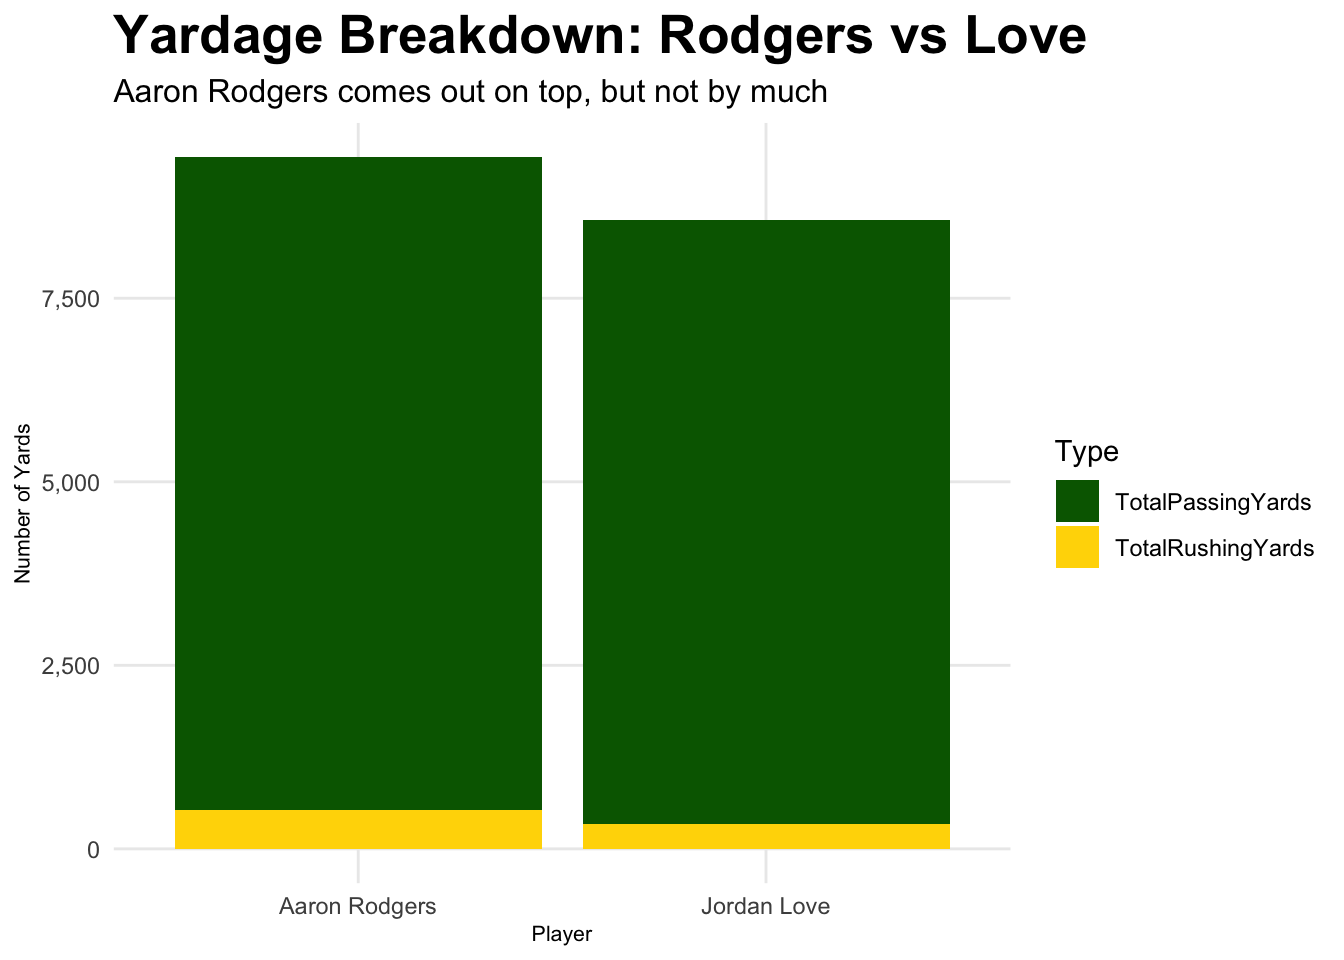
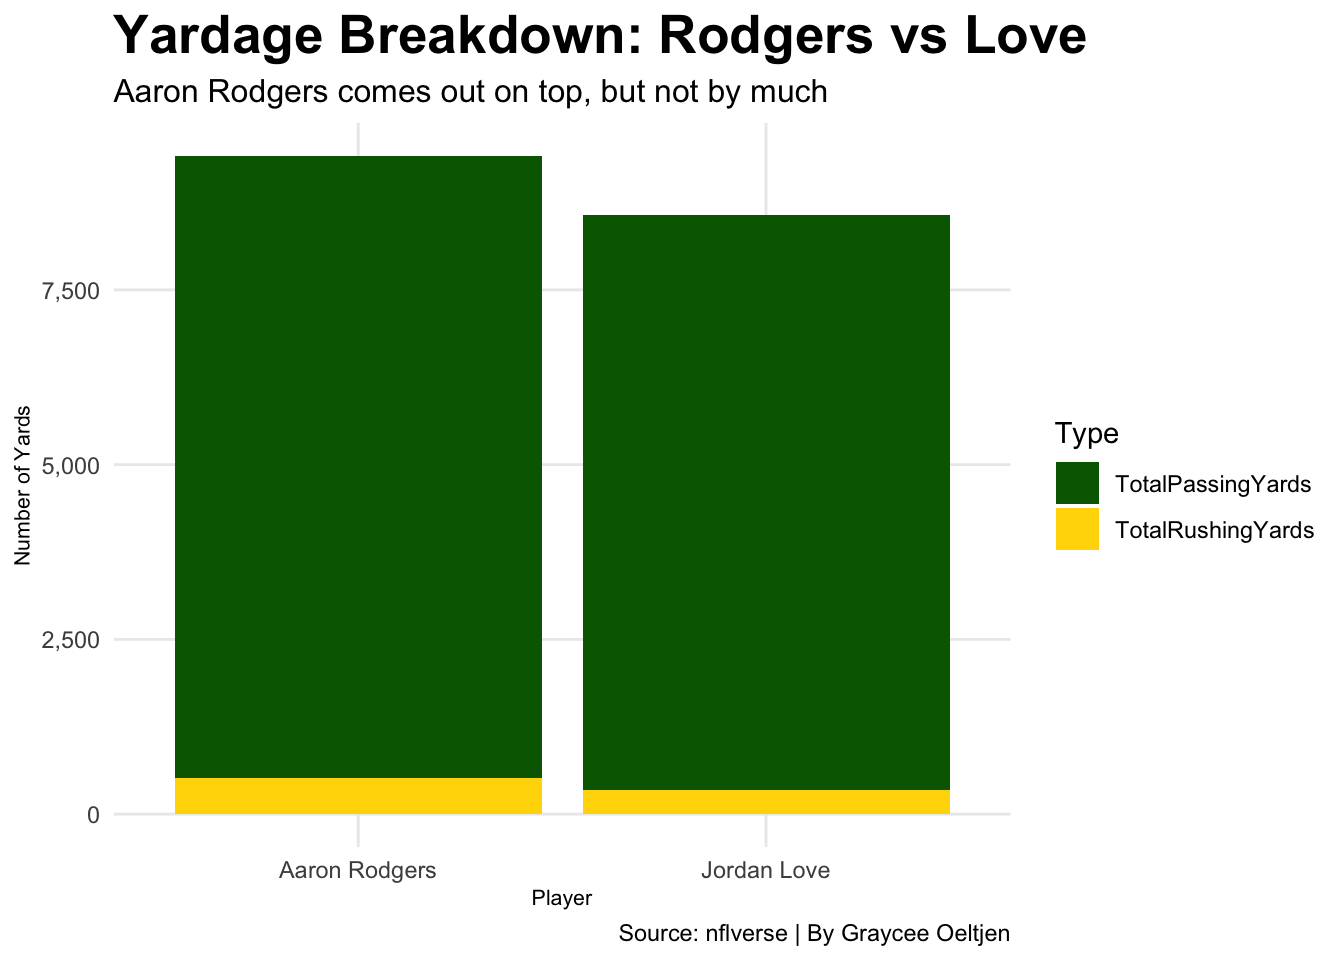
sourceupdateagain

diff --git a/posts/jordan-love-vs-aaron-rodgers/index.html b/posts/jordan-love-vs-aaron-rodgers/index.html
@@ -233,18 +233,19 @@ pre > code.sourceCode > span > a:first-child::before { text-decoration: underlin
 <span id="cb1-30"><a href="#cb1-30" aria-hidden="true" tabindex="-1"></a>    <span class="at">y =</span> <span class="st">"Number of Yards"</span>,</span>
 <span id="cb1-31"><a href="#cb1-31" aria-hidden="true" tabindex="-1"></a>    <span class="at">x =</span> <span class="st">"Player"</span>,</span>
 <span id="cb1-32"><a href="#cb1-32" aria-hidden="true" tabindex="-1"></a>    <span class="at">title =</span> <span class="st">"Yardage Breakdown: Rodgers vs Love"</span>,</span>
-<span id="cb1-33"><a href="#cb1-33" aria-hidden="true" tabindex="-1"></a>    <span class="at">subtitle =</span> <span class="st">"Aaron Rodgers comes out on top, but not by much"</span></span>
-<span id="cb1-34"><a href="#cb1-34" aria-hidden="true" tabindex="-1"></a>  ) <span class="sc">+</span></span>
-<span id="cb1-35"><a href="#cb1-35" aria-hidden="true" tabindex="-1"></a>  <span class="fu">scale_y_continuous</span>(<span class="at">labels =</span> scales<span class="sc">::</span>comma) <span class="sc">+</span></span>
-<span id="cb1-36"><a href="#cb1-36" aria-hidden="true" tabindex="-1"></a>  <span class="fu">theme_minimal</span>() <span class="sc">+</span></span>
-<span id="cb1-37"><a href="#cb1-37" aria-hidden="true" tabindex="-1"></a>  <span class="fu">theme</span>(</span>
-<span id="cb1-38"><a href="#cb1-38" aria-hidden="true" tabindex="-1"></a>    <span class="at">plot.title =</span> <span class="fu">element_text</span>(<span class="at">size =</span> <span class="dv">20</span>, <span class="at">face =</span> <span class="st">"bold"</span>),</span>
-<span id="cb1-39"><a href="#cb1-39" aria-hidden="true" tabindex="-1"></a>    <span class="at">panel.background =</span> <span class="fu">element_rect</span>(<span class="at">fill =</span> <span class="st">"white"</span>, <span class="at">color =</span> <span class="cn">NA</span>),</span>
-<span id="cb1-40"><a href="#cb1-40" aria-hidden="true" tabindex="-1"></a>    <span class="at">plot.background =</span> <span class="fu">element_rect</span>(<span class="at">fill =</span> <span class="st">"white"</span>, <span class="at">color =</span> <span class="cn">NA</span>),</span>
-<span id="cb1-41"><a href="#cb1-41" aria-hidden="true" tabindex="-1"></a>    <span class="at">plot.subtitle =</span> <span class="fu">element_text</span>(<span class="at">size =</span> <span class="dv">12</span>),</span>
-<span id="cb1-42"><a href="#cb1-42" aria-hidden="true" tabindex="-1"></a>    <span class="at">axis.title =</span> <span class="fu">element_text</span>(<span class="at">size =</span> <span class="dv">8</span>),</span>
-<span id="cb1-43"><a href="#cb1-43" aria-hidden="true" tabindex="-1"></a>    <span class="at">panel.grid.minor =</span> <span class="fu">element_blank</span>()</span>
-<span id="cb1-44"><a href="#cb1-44" aria-hidden="true" tabindex="-1"></a>  )</span></code><button title="Copy to Clipboard" class="code-copy-button"><i class="bi"></i></button></pre></div>
+<span id="cb1-33"><a href="#cb1-33" aria-hidden="true" tabindex="-1"></a>    <span class="at">subtitle =</span> <span class="st">"Aaron Rodgers comes out on top, but not by much"</span>,</span>
+<span id="cb1-34"><a href="#cb1-34" aria-hidden="true" tabindex="-1"></a>    <span class="at">caption=</span><span class="st">"Source: nflverse | By Graycee Oeltjen"</span>,</span>
+<span id="cb1-35"><a href="#cb1-35" aria-hidden="true" tabindex="-1"></a>  ) <span class="sc">+</span></span>
+<span id="cb1-36"><a href="#cb1-36" aria-hidden="true" tabindex="-1"></a>  <span class="fu">scale_y_continuous</span>(<span class="at">labels =</span> scales<span class="sc">::</span>comma) <span class="sc">+</span></span>
+<span id="cb1-37"><a href="#cb1-37" aria-hidden="true" tabindex="-1"></a>  <span class="fu">theme_minimal</span>() <span class="sc">+</span></span>
+<span id="cb1-38"><a href="#cb1-38" aria-hidden="true" tabindex="-1"></a>  <span class="fu">theme</span>(</span>
+<span id="cb1-39"><a href="#cb1-39" aria-hidden="true" tabindex="-1"></a>    <span class="at">plot.title =</span> <span class="fu">element_text</span>(<span class="at">size =</span> <span class="dv">20</span>, <span class="at">face =</span> <span class="st">"bold"</span>),</span>
+<span id="cb1-40"><a href="#cb1-40" aria-hidden="true" tabindex="-1"></a>    <span class="at">panel.background =</span> <span class="fu">element_rect</span>(<span class="at">fill =</span> <span class="st">"white"</span>, <span class="at">color =</span> <span class="cn">NA</span>),</span>
+<span id="cb1-41"><a href="#cb1-41" aria-hidden="true" tabindex="-1"></a>    <span class="at">plot.background =</span> <span class="fu">element_rect</span>(<span class="at">fill =</span> <span class="st">"white"</span>, <span class="at">color =</span> <span class="cn">NA</span>),</span>
+<span id="cb1-42"><a href="#cb1-42" aria-hidden="true" tabindex="-1"></a>    <span class="at">plot.subtitle =</span> <span class="fu">element_text</span>(<span class="at">size =</span> <span class="dv">12</span>),</span>
+<span id="cb1-43"><a href="#cb1-43" aria-hidden="true" tabindex="-1"></a>    <span class="at">axis.title =</span> <span class="fu">element_text</span>(<span class="at">size =</span> <span class="dv">8</span>),</span>
+<span id="cb1-44"><a href="#cb1-44" aria-hidden="true" tabindex="-1"></a>    <span class="at">panel.grid.minor =</span> <span class="fu">element_blank</span>()</span>
+<span id="cb1-45"><a href="#cb1-45" aria-hidden="true" tabindex="-1"></a>  )</span></code><button title="Copy to Clipboard" class="code-copy-button"><i class="bi"></i></button></pre></div>
 </details>
 <div class="cell-output-display">
 <div>
@@ -283,18 +284,19 @@ pre > code.sourceCode > span > a:first-child::before { text-decoration: underlin
 <span id="cb2-21"><a href="#cb2-21" aria-hidden="true" tabindex="-1"></a>    <span class="at">y =</span> <span class="st">"Touchdown Rate"</span>,</span>
 <span id="cb2-22"><a href="#cb2-22" aria-hidden="true" tabindex="-1"></a>    <span class="at">color =</span> <span class="st">"Player"</span>,</span>
 <span id="cb2-23"><a href="#cb2-23" aria-hidden="true" tabindex="-1"></a>    <span class="at">title =</span> <span class="st">"Quarterback Accuracy in Green Bay"</span>,</span>
-<span id="cb2-24"><a href="#cb2-24" aria-hidden="true" tabindex="-1"></a>    <span class="at">subtitle =</span> <span class="st">"Aaron Rodgers and Jordan Love are pretty similar in this aspect"</span></span>
-<span id="cb2-25"><a href="#cb2-25" aria-hidden="true" tabindex="-1"></a>  ) <span class="sc">+</span></span>
-<span id="cb2-26"><a href="#cb2-26" aria-hidden="true" tabindex="-1"></a>  <span class="fu">scale_color_manual</span>(<span class="at">values =</span> <span class="fu">c</span>(<span class="st">"Aaron Rodgers"</span> <span class="ot">=</span> <span class="st">"gold"</span>, <span class="st">"Jordan Love"</span> <span class="ot">=</span> <span class="st">"darkgreen"</span>)) <span class="sc">+</span></span>
-<span id="cb2-27"><a href="#cb2-27" aria-hidden="true" tabindex="-1"></a>  <span class="fu">theme_minimal</span>() <span class="sc">+</span></span>
-<span id="cb2-28"><a href="#cb2-28" aria-hidden="true" tabindex="-1"></a>  <span class="fu">theme</span>(</span>
-<span id="cb2-29"><a href="#cb2-29" aria-hidden="true" tabindex="-1"></a>    <span class="at">plot.title =</span> <span class="fu">element_text</span>(<span class="at">size =</span> <span class="dv">16</span>, <span class="at">face =</span> <span class="st">"bold"</span>),</span>
-<span id="cb2-30"><a href="#cb2-30" aria-hidden="true" tabindex="-1"></a>    <span class="at">panel.background =</span> <span class="fu">element_rect</span>(<span class="at">fill =</span> <span class="st">"white"</span>, <span class="at">color =</span> <span class="cn">NA</span>),</span>
-<span id="cb2-31"><a href="#cb2-31" aria-hidden="true" tabindex="-1"></a>    <span class="at">plot.background =</span> <span class="fu">element_rect</span>(<span class="at">fill =</span> <span class="st">"white"</span>, <span class="at">color =</span> <span class="cn">NA</span>),</span>
-<span id="cb2-32"><a href="#cb2-32" aria-hidden="true" tabindex="-1"></a>    <span class="at">plot.subtitle =</span> <span class="fu">element_text</span>(<span class="at">size =</span> <span class="dv">10</span>),</span>
-<span id="cb2-33"><a href="#cb2-33" aria-hidden="true" tabindex="-1"></a>    <span class="at">axis.title =</span> <span class="fu">element_text</span>(<span class="at">size =</span> <span class="dv">8</span>),</span>
-<span id="cb2-34"><a href="#cb2-34" aria-hidden="true" tabindex="-1"></a>    <span class="at">panel.grid.minor =</span> <span class="fu">element_blank</span>()</span>
-<span id="cb2-35"><a href="#cb2-35" aria-hidden="true" tabindex="-1"></a>  )</span></code><button title="Copy to Clipboard" class="code-copy-button"><i class="bi"></i></button></pre></div>
+<span id="cb2-24"><a href="#cb2-24" aria-hidden="true" tabindex="-1"></a>    <span class="at">subtitle =</span> <span class="st">"Aaron Rodgers and Jordan Love are pretty similar in this aspect"</span>,</span>
+<span id="cb2-25"><a href="#cb2-25" aria-hidden="true" tabindex="-1"></a>    <span class="at">caption=</span><span class="st">"Source: nflverse | By Graycee Oeltjen"</span>,</span>
+<span id="cb2-26"><a href="#cb2-26" aria-hidden="true" tabindex="-1"></a>  ) <span class="sc">+</span></span>
+<span id="cb2-27"><a href="#cb2-27" aria-hidden="true" tabindex="-1"></a>  <span class="fu">scale_color_manual</span>(<span class="at">values =</span> <span class="fu">c</span>(<span class="st">"Aaron Rodgers"</span> <span class="ot">=</span> <span class="st">"gold"</span>, <span class="st">"Jordan Love"</span> <span class="ot">=</span> <span class="st">"darkgreen"</span>)) <span class="sc">+</span></span>
+<span id="cb2-28"><a href="#cb2-28" aria-hidden="true" tabindex="-1"></a>  <span class="fu">theme_minimal</span>() <span class="sc">+</span></span>
+<span id="cb2-29"><a href="#cb2-29" aria-hidden="true" tabindex="-1"></a>  <span class="fu">theme</span>(</span>
+<span id="cb2-30"><a href="#cb2-30" aria-hidden="true" tabindex="-1"></a>    <span class="at">plot.title =</span> <span class="fu">element_text</span>(<span class="at">size =</span> <span class="dv">16</span>, <span class="at">face =</span> <span class="st">"bold"</span>),</span>
+<span id="cb2-31"><a href="#cb2-31" aria-hidden="true" tabindex="-1"></a>    <span class="at">panel.background =</span> <span class="fu">element_rect</span>(<span class="at">fill =</span> <span class="st">"white"</span>, <span class="at">color =</span> <span class="cn">NA</span>),</span>
+<span id="cb2-32"><a href="#cb2-32" aria-hidden="true" tabindex="-1"></a>    <span class="at">plot.background =</span> <span class="fu">element_rect</span>(<span class="at">fill =</span> <span class="st">"white"</span>, <span class="at">color =</span> <span class="cn">NA</span>),</span>
+<span id="cb2-33"><a href="#cb2-33" aria-hidden="true" tabindex="-1"></a>    <span class="at">plot.subtitle =</span> <span class="fu">element_text</span>(<span class="at">size =</span> <span class="dv">10</span>),</span>
+<span id="cb2-34"><a href="#cb2-34" aria-hidden="true" tabindex="-1"></a>    <span class="at">axis.title =</span> <span class="fu">element_text</span>(<span class="at">size =</span> <span class="dv">8</span>),</span>
+<span id="cb2-35"><a href="#cb2-35" aria-hidden="true" tabindex="-1"></a>    <span class="at">panel.grid.minor =</span> <span class="fu">element_blank</span>()</span>
+<span id="cb2-36"><a href="#cb2-36" aria-hidden="true" tabindex="-1"></a>  )</span></code><button title="Copy to Clipboard" class="code-copy-button"><i class="bi"></i></button></pre></div>
 </details>
 <div class="cell-output-display">
 <div>
@@ -342,17 +344,18 @@ pre > code.sourceCode > span > a:first-child::before { text-decoration: underlin
 <span id="cb3-29"><a href="#cb3-29" aria-hidden="true" tabindex="-1"></a>    <span class="at">y =</span> <span class="st">"Player &amp; Year"</span>,</span>
 <span id="cb3-30"><a href="#cb3-30" aria-hidden="true" tabindex="-1"></a>    <span class="at">color =</span> <span class="st">"Player"</span>,</span>
 <span id="cb3-31"><a href="#cb3-31" aria-hidden="true" tabindex="-1"></a>    <span class="at">title =</span> <span class="st">"Helping vs Hurting the Team"</span>,</span>
-<span id="cb3-32"><a href="#cb3-32" aria-hidden="true" tabindex="-1"></a>    <span class="at">subtitle =</span> <span class="st">"Jordan Love outweighs Aaron Rodgers in year 1, but year 2 is a different story."</span></span>
-<span id="cb3-33"><a href="#cb3-33" aria-hidden="true" tabindex="-1"></a>  ) <span class="sc">+</span></span>
-<span id="cb3-34"><a href="#cb3-34" aria-hidden="true" tabindex="-1"></a>  <span class="fu">theme_minimal</span>() <span class="sc">+</span></span>
-<span id="cb3-35"><a href="#cb3-35" aria-hidden="true" tabindex="-1"></a>  <span class="fu">theme</span>(</span>
-<span id="cb3-36"><a href="#cb3-36" aria-hidden="true" tabindex="-1"></a>    <span class="at">plot.title =</span> <span class="fu">element_text</span>(<span class="at">size =</span> <span class="dv">16</span>, <span class="at">face =</span> <span class="st">"bold"</span>),</span>
-<span id="cb3-37"><a href="#cb3-37" aria-hidden="true" tabindex="-1"></a>    <span class="at">panel.background =</span> <span class="fu">element_rect</span>(<span class="at">fill =</span> <span class="st">"white"</span>, <span class="at">color =</span> <span class="cn">NA</span>),</span>
-<span id="cb3-38"><a href="#cb3-38" aria-hidden="true" tabindex="-1"></a>    <span class="at">plot.background =</span> <span class="fu">element_rect</span>(<span class="at">fill =</span> <span class="st">"white"</span>, <span class="at">color =</span> <span class="cn">NA</span>),</span>
-<span id="cb3-39"><a href="#cb3-39" aria-hidden="true" tabindex="-1"></a>    <span class="at">plot.subtitle =</span> <span class="fu">element_text</span>(<span class="at">size =</span> <span class="dv">10</span>),</span>
-<span id="cb3-40"><a href="#cb3-40" aria-hidden="true" tabindex="-1"></a>    <span class="at">axis.title =</span> <span class="fu">element_text</span>(<span class="at">size =</span> <span class="dv">8</span>),</span>
-<span id="cb3-41"><a href="#cb3-41" aria-hidden="true" tabindex="-1"></a>    <span class="at">panel.grid.minor =</span> <span class="fu">element_blank</span>()</span>
-<span id="cb3-42"><a href="#cb3-42" aria-hidden="true" tabindex="-1"></a>  )</span></code><button title="Copy to Clipboard" class="code-copy-button"><i class="bi"></i></button></pre></div>
+<span id="cb3-32"><a href="#cb3-32" aria-hidden="true" tabindex="-1"></a>    <span class="at">subtitle =</span> <span class="st">"Jordan Love outweighs Aaron Rodgers in year 1, but year 2 is a different story."</span>,</span>
+<span id="cb3-33"><a href="#cb3-33" aria-hidden="true" tabindex="-1"></a>    <span class="at">caption=</span><span class="st">"Source: nflverse | By Graycee Oeltjen"</span>,</span>
+<span id="cb3-34"><a href="#cb3-34" aria-hidden="true" tabindex="-1"></a>  ) <span class="sc">+</span></span>
+<span id="cb3-35"><a href="#cb3-35" aria-hidden="true" tabindex="-1"></a>  <span class="fu">theme_minimal</span>() <span class="sc">+</span></span>
+<span id="cb3-36"><a href="#cb3-36" aria-hidden="true" tabindex="-1"></a>  <span class="fu">theme</span>(</span>
+<span id="cb3-37"><a href="#cb3-37" aria-hidden="true" tabindex="-1"></a>    <span class="at">plot.title =</span> <span class="fu">element_text</span>(<span class="at">size =</span> <span class="dv">16</span>, <span class="at">face =</span> <span class="st">"bold"</span>),</span>
+<span id="cb3-38"><a href="#cb3-38" aria-hidden="true" tabindex="-1"></a>    <span class="at">panel.background =</span> <span class="fu">element_rect</span>(<span class="at">fill =</span> <span class="st">"white"</span>, <span class="at">color =</span> <span class="cn">NA</span>),</span>
+<span id="cb3-39"><a href="#cb3-39" aria-hidden="true" tabindex="-1"></a>    <span class="at">plot.background =</span> <span class="fu">element_rect</span>(<span class="at">fill =</span> <span class="st">"white"</span>, <span class="at">color =</span> <span class="cn">NA</span>),</span>
+<span id="cb3-40"><a href="#cb3-40" aria-hidden="true" tabindex="-1"></a>    <span class="at">plot.subtitle =</span> <span class="fu">element_text</span>(<span class="at">size =</span> <span class="dv">10</span>),</span>
+<span id="cb3-41"><a href="#cb3-41" aria-hidden="true" tabindex="-1"></a>    <span class="at">axis.title =</span> <span class="fu">element_text</span>(<span class="at">size =</span> <span class="dv">8</span>),</span>
+<span id="cb3-42"><a href="#cb3-42" aria-hidden="true" tabindex="-1"></a>    <span class="at">panel.grid.minor =</span> <span class="fu">element_blank</span>()</span>
+<span id="cb3-43"><a href="#cb3-43" aria-hidden="true" tabindex="-1"></a>  )</span></code><button title="Copy to Clipboard" class="code-copy-button"><i class="bi"></i></button></pre></div>
 </details>
 <div class="cell-output-display">
 <div>

diff --git a/index.html b/index.html
@@ -210,7 +210,7 @@ window.Quarto = {
 
 <div class="quarto-listing quarto-listing-container-default" id="listing-listing">
 <div class="list quarto-listing-default">
-<div class="quarto-post image-right" data-index="0" data-categories="bmZsJTJDZm9vdGJhbGwlMkNxdWFydGVyYmFjaw==" data-listing-date-sort="1746334800000" data-listing-file-modified-sort="1746418666784" data-listing-date-modified-sort="NaN" data-listing-reading-time-sort="8" data-listing-word-count-sort="1412">
+<div class="quarto-post image-right" data-index="0" data-categories="bmZsJTJDZm9vdGJhbGwlMkNxdWFydGVyYmFjaw==" data-listing-date-sort="1746334800000" data-listing-file-modified-sort="1746572242059" data-listing-date-modified-sort="NaN" data-listing-reading-time-sort="8" data-listing-word-count-sort="1439">
 <div class="thumbnail">
 <p><a href="./posts/jordan-love-vs-aaron-rodgers/index.html" class="no-external"></a></p><a href="./posts/jordan-love-vs-aaron-rodgers/index.html" class="no-external">
 <p><img loading="lazy" src="./posts/jordan-love-vs-aaron-rodgers/chart.jpeg" class="thumbnail-image"></p>
@@ -249,7 +249,7 @@ Graycee M. Oeltjen
 </a>
 </div>
 </div>
-<div class="quarto-post image-right" data-index="1" data-categories="bmNhYSUyQ2Jhc2tldGJhbGwlMkNuZWJyYXNrYQ==" data-listing-date-sort="1744520400000" data-listing-file-modified-sort="1744692519402" data-listing-date-modified-sort="NaN" data-listing-reading-time-sort="8" data-listing-word-count-sort="1514">
+<div class="quarto-post image-right" data-index="1" data-categories="bmNhYSUyQ2Jhc2tldGJhbGwlMkNuZWJyYXNrYQ==" data-listing-date-sort="1744520400000" data-listing-file-modified-sort="1746418967480" data-listing-date-modified-sort="NaN" data-listing-reading-time-sort="8" data-listing-word-count-sort="1514">
 <div class="thumbnail">
 <p><a href="./posts/nebraska-basketball-home-court-advantage/index.html" class="no-external"></a></p><a href="./posts/nebraska-basketball-home-court-advantage/index.html" class="no-external">
 <p><img loading="lazy" src="./posts/nebraska-basketball-home-court-advantage/barchart Small.jpeg" class="thumbnail-image"></p>
